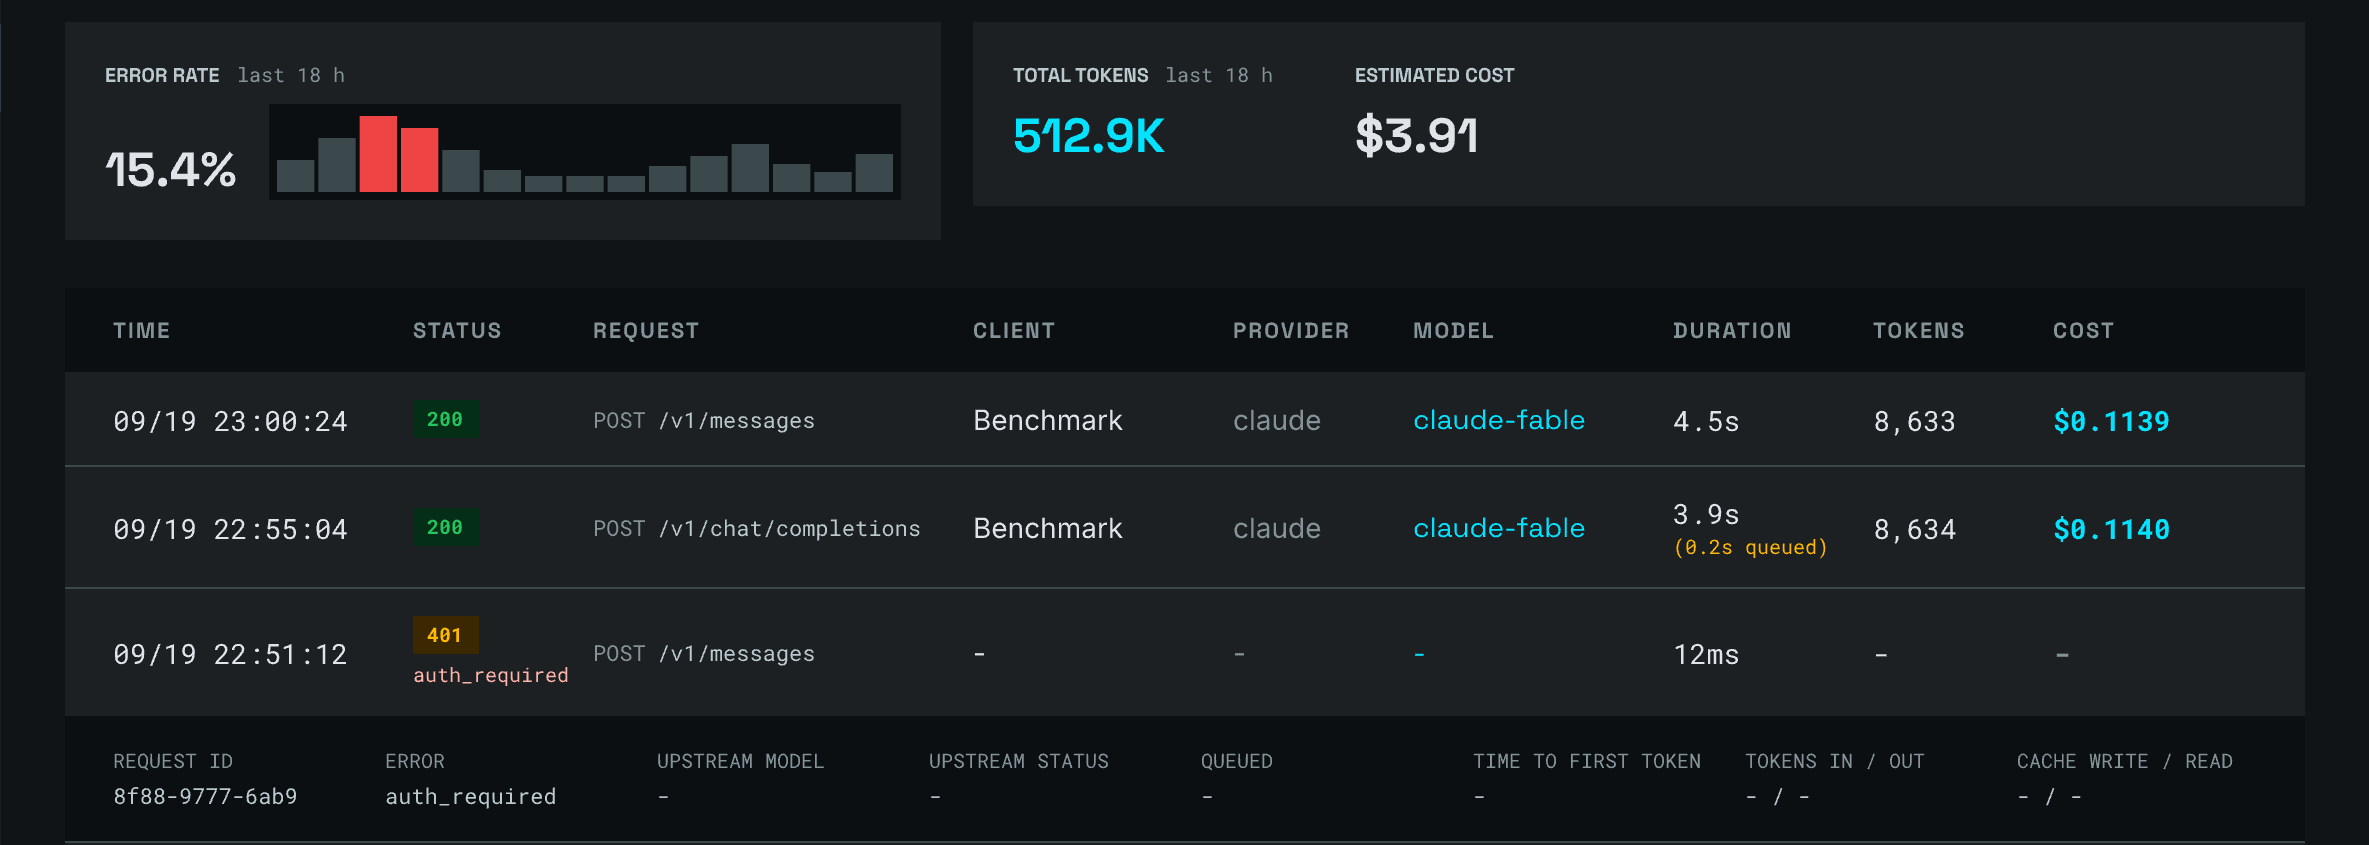
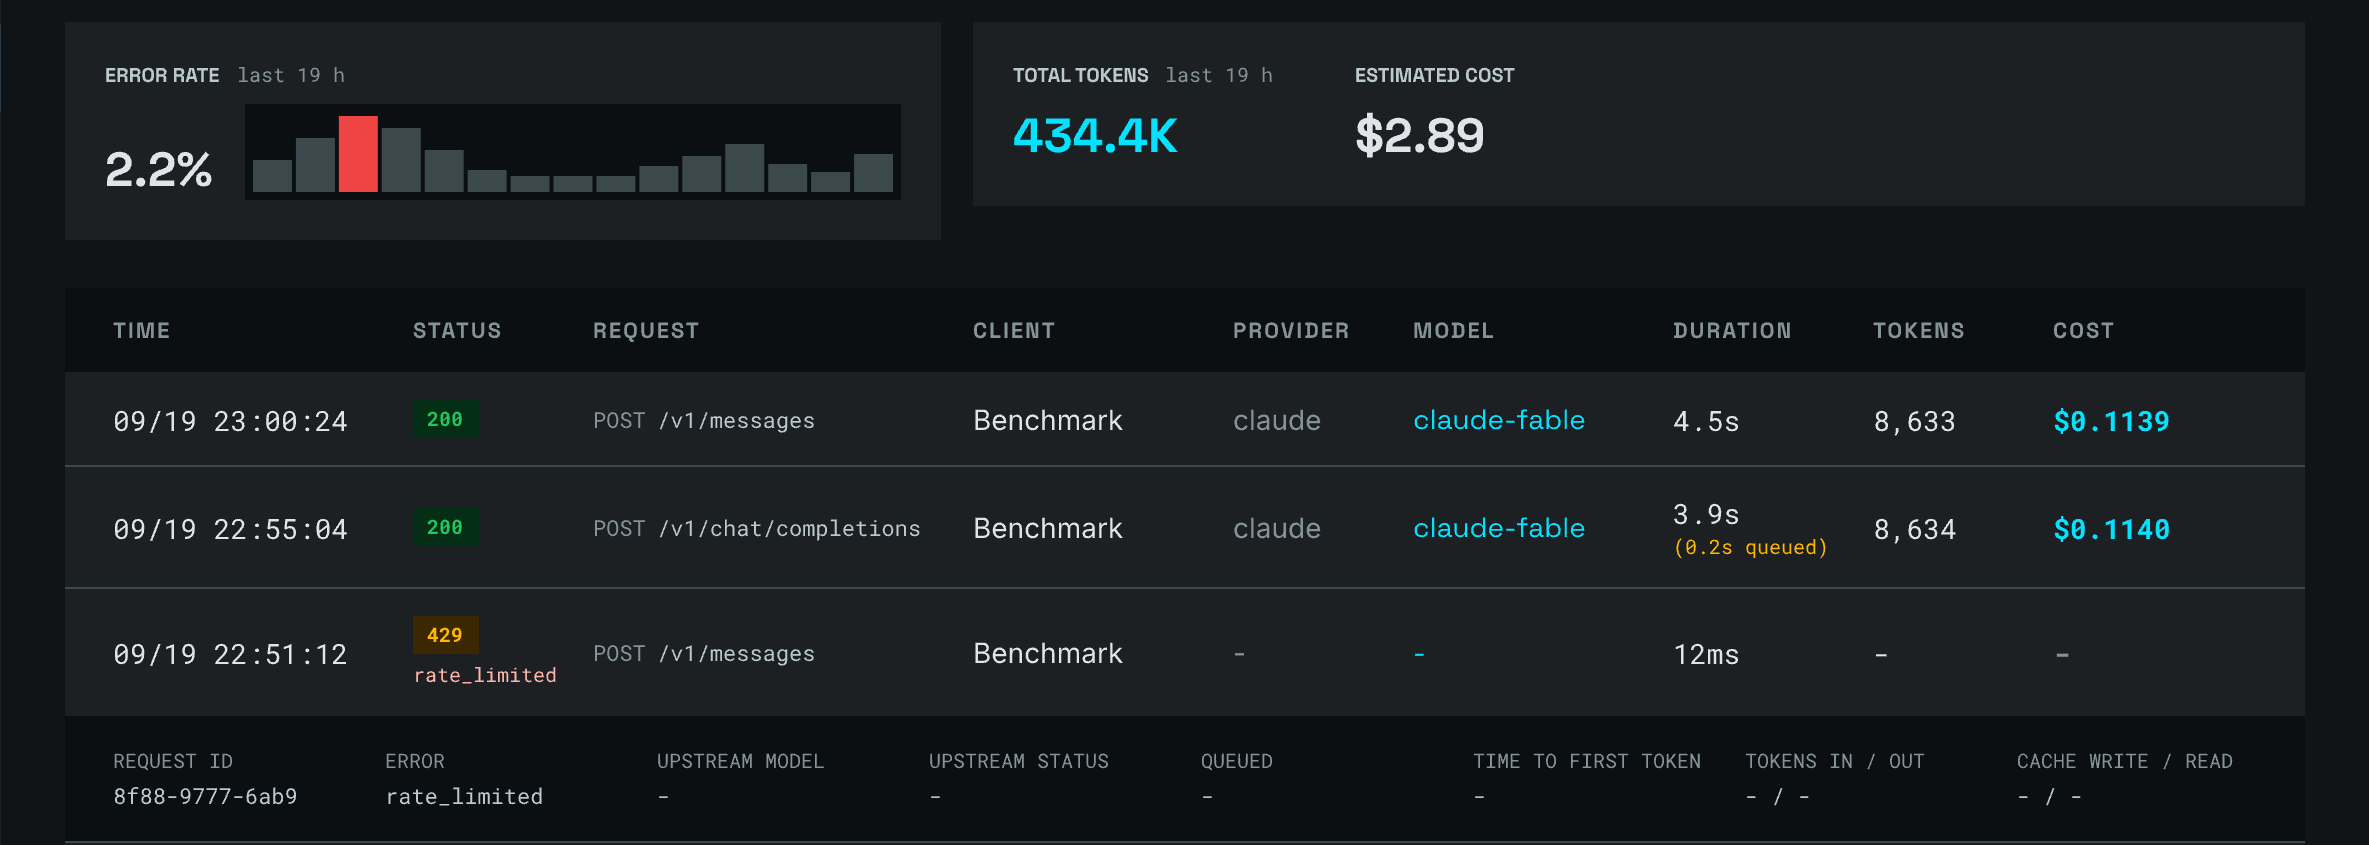
design(admin): redraw Request Logs on a representative dataset (D58)
The artboard's illustrative dataset showed a 15.4% error rate, a 401
auth_required and two 404s -- numbers that came from auth tests on a dev box.
A reader of the README or the landing page saw one request in six failing,
which is less accurate about normal operation than a representative run.

It now reads 94 logs, 2.2% over 19 hours, 434.4K tokens, $2.89, one error
bucket of fifteen, and the error row is a 429 rate_limited with its client
still visible -- an operational limit rather than a test artefact. Pagination
follows the count: 94 at 25 a page is 4, not 5.

D58 assumed the export was a screenshot and it is not; it is this artboard's
export, so a re-capture would have been reverted by the next re-export. The
two code defects that made the drawing untruthful landed first, so the
sparkline's quiet buckets and the detail row's position now match what ships.

Recut assets/site/request-logs.png from the region assets/site/README.md
records, and corrected the landing alt text, which named eighteen hours and a
401.

diff --git a/site/index.html b/site/index.html
@@ -232,7 +232,7 @@
           <h3>Request logs</h3>
           <p>Every request, with what it cost and why it failed.</p>
         </figcaption>
-        <img src="img/request-logs.png" width="2369" height="845" alt="The Request Logs table: an error rate with its sparkline, total tokens and estimated cost for the last eighteen hours, then rows carrying time, status, route, client, provider, model, duration, tokens and cost — including a 401 auth_required." loading="lazy">
+        <img src="img/request-logs.png" width="2369" height="845" alt="The Request Logs table: an error rate with its sparkline, total tokens and estimated cost for the last nineteen hours, then rows carrying time, status, route, client, provider, model, duration, tokens and cost — including a 429 rate_limited with its detail row expanded." loading="lazy">
       </figure>
 
       <figure class="frame panel reveal">

diff --git a/design/LANDING-AUDIT.md b/design/LANDING-AUDIT.md
@@ -22,14 +22,23 @@ Neither of them looked at `site/`; this is the first pass over the public surfac
 | | Landed | Open |
 |---|---|---|
 | **Page** | D50 D51 D52 D53 D54 D55 | — |
-| **Pipeline** | D56 D57 | D58 — needs a capture nobody has taken yet |
+| **Pipeline** | D56 D57 D58 | — |
 | **Docs** | D59 | — |
 | **Reported during the work** | D60 — geometry, then the duplicate mark it left behind | — |
 
-Everything this audit found is in except **D58**, which is not a code change: the shipped Request
-Logs capture shows a 15.4% error rate from the maintainer's own auth tests, and replacing it needs
-the admin running against representative data in a browser. This container has neither, so writing
-a nicer caption over the same picture would have been the dishonest version of closing it.
+Everything this audit found is in, D58 included — but it closed 2026-09-21 in a way this document
+got wrong, and the correction is worth more than the fix.
+
+**D58 assumed the export was a screenshot. It is not.** `design/exports/admin-request-logs-default.png`
+is a Pencil canvas export of the `Admin / Request Logs / Default` artboard, so "re-capture it" was
+never the fix — a screenshot dropped into `exports/` is reverted by the next re-export. The real
+fix was to redraw the artboard's illustrative dataset, which is what happened.
+
+**Two code defects had to land first**, because the drawing mirrored intent rather than output and
+redrawing before them would have meant either drawing bars the code never painted or drawing the
+broken state: alpha-modified theme colours emitted no CSS, so the sparkline's quiet buckets never
+rendered, and the expanded detail row rendered after the whole table instead of under its row. Both
+are on master.
 
 **Measured after, against the table below:** body prose **573 → 293 words**, screenshots
 **1 → 5**, and the build copies five exports instead of one hardcoded file. Motion below the fold
